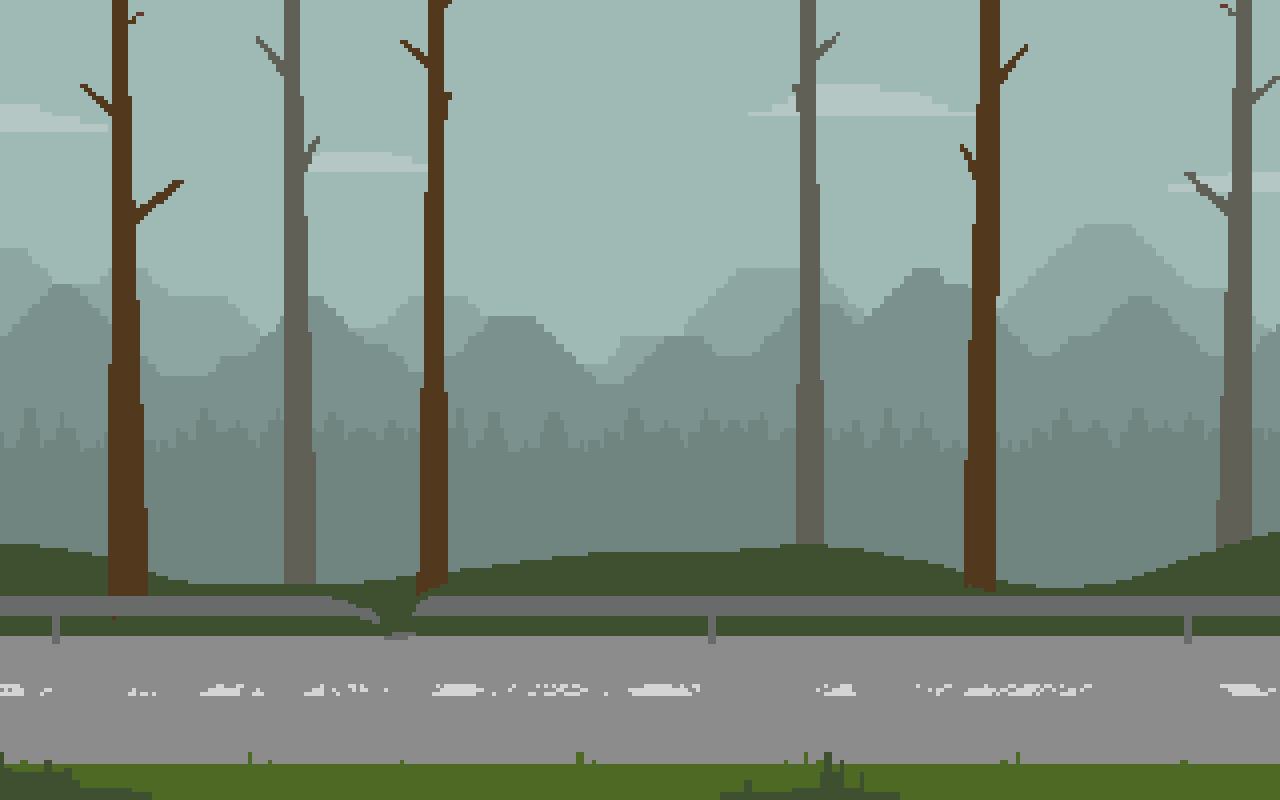
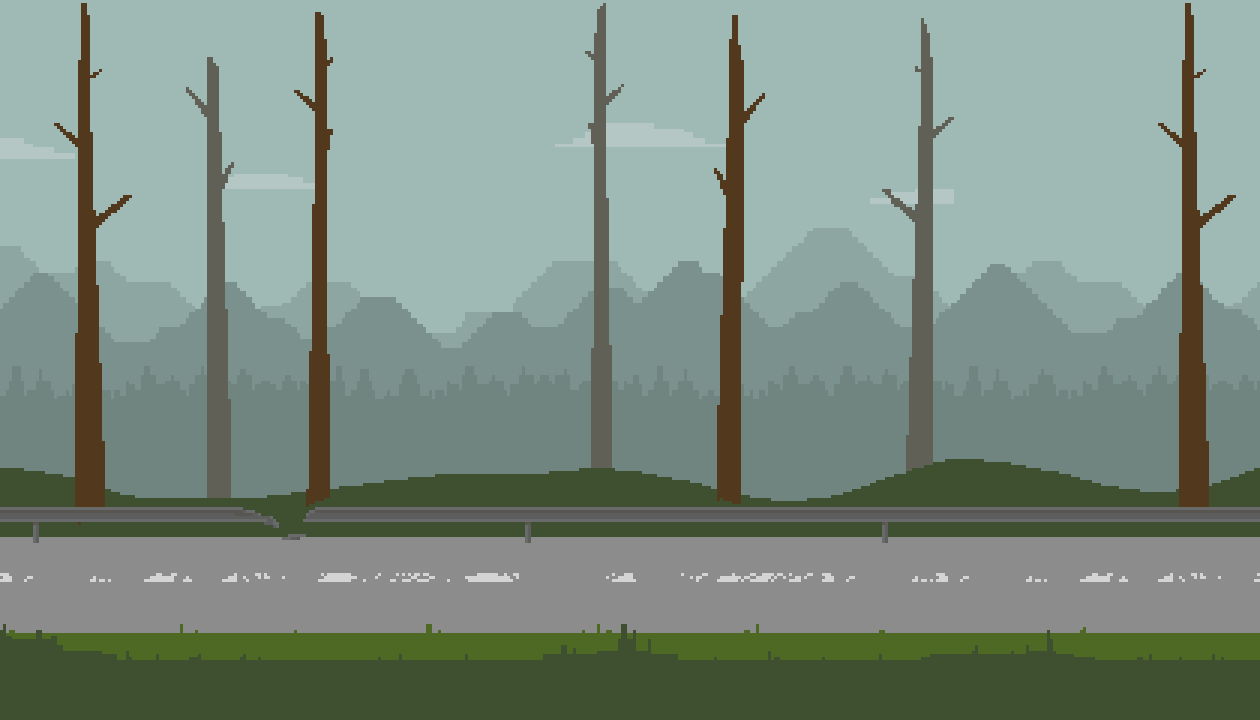
bigger background, add camera

diff --git a/src/phaser/scenes/RoadScene.ts b/src/phaser/scenes/RoadScene.ts
@@ -10,12 +10,10 @@ import {
 import { randomLine } from '../default-lines'
 import { pickUp } from '../utils/inventory'
 import { SCENES, IMAGES, AUDIO } from '../constants'
-import Survivor from '../sprites/Survivor'
 import Buggy from '../sprites/Buggy'
 import BuildingScene from './BuildingScene'
 
 class RoadScene extends BaseScene {
-  private survivor: Survivor
   private buggy: Buggy
   private floor: Physics.Arcade.Image
   private roadsign: Physics.Arcade.Image
@@ -68,7 +66,11 @@ class RoadScene extends BaseScene {
       use: () => {
         this.interactingWithObject = true
         if (this.currentObject.consumable) {
-          document.dispatchEvent(new CustomEvent('consume', { detail: { id: this.currentObject.id} }))
+          document.dispatchEvent(
+            new CustomEvent('consume', {
+              detail: { id: this.currentObject.id }
+            })
+          )
           return this.createDialog('Ah… much better')
         }
 
@@ -101,15 +103,16 @@ class RoadScene extends BaseScene {
     this.initScene()
 
     const bg = this.add.image(0, 0, IMAGES.ROAD.KEY).setOrigin(0)
-    bg.setDisplaySize(this.game.canvas.width, this.game.canvas.height)
+
+    this.physics.world.setBounds(0, 0, bg.width, bg.height)
 
     this.floor = this.physics.add
-      .staticImage(0, 412, IMAGES.FLOOR.KEY)
+      .staticImage(0, 570, IMAGES.FLOOR.KEY)
       .setOrigin(0, 0)
       .refreshBody()
 
     this.roadsign = this.physics.add
-      .staticImage(660, 360, IMAGES.ROADSIGN.KEY)
+      .staticImage(700, 485, IMAGES.ROADSIGN.KEY)
       .refreshBody()
       .setInteractive()
 
@@ -120,7 +123,7 @@ class RoadScene extends BaseScene {
     })
 
     this.pinecone = this.physics.add
-      .staticImage(550, 420, IMAGES.PINECONE.KEY)
+      .staticImage(550, 555, IMAGES.PINECONE.KEY)
       .refreshBody()
       .setInteractive()
 
@@ -130,6 +133,23 @@ class RoadScene extends BaseScene {
       }
     })
 
+    this.buggy = new Buggy({
+      scene: this,
+      key: IMAGES.BUGGY.KEY,
+      x: 1000,
+      y: 520
+    })
+    this.physics.add.collider(this.floor, this.buggy)
+
+    this.buggy.setInteractive()
+    this.buggy.on('pointerup', () => {
+      if (!this.playingCutscene) {
+        this.sys.events.on(this.look.buggy.key, this.look.buggy.cb, this)
+      }
+    })
+
+    this.cameras.main.setBounds(0, 0, 1260, 720)
+    this.cameras.main.startFollow(this.buggy, false, 1, 1, 0, 120)
     this.initCutscene()
   }
 
@@ -157,7 +177,7 @@ class RoadScene extends BaseScene {
 
     const reset = () => setText(baseText)
 
-    Object.keys(this.use).forEach((key) => {
+    Object.keys(this.use).forEach(key => {
       this.use[key].setText = () => {
         setText(`${baseText} ${this.use[key].name}`)
       }
@@ -168,7 +188,7 @@ class RoadScene extends BaseScene {
     })
 
     this.input.on('pointerdown', () => {
-      Object.keys(this.use).forEach((key) => {
+      Object.keys(this.use).forEach(key => {
         this[key].off('pointerover', this.use[key].setText)
         this[key].off('pointerdown', this.use[key].use)
         this[key].off('pointerout', reset)
@@ -189,21 +209,6 @@ class RoadScene extends BaseScene {
   }
 
   private initCutscene() {
-    this.buggy = new Buggy({
-      scene: this,
-      key: IMAGES.BUGGY.KEY,
-      x: 1000,
-      y: 359
-    })
-    this.physics.add.collider(this.floor, this.buggy)
-
-    this.buggy.setInteractive()
-    this.buggy.on('pointerup', () => {
-      if (!this.playingCutscene) {
-        this.sys.events.on(this.look.buggy.key, this.look.buggy.cb, this)
-      }
-    })
-
     this.buggy.play('buggy-driving')
 
     this.tweens.add({
@@ -218,6 +223,7 @@ class RoadScene extends BaseScene {
           this.buggy.play('buggy-parked')
           this.initEngine()
           this.initSurvivor()
+          this.cameras.main.startFollow(this.survivor, false, 1, 1, 0, 110)
         }
         this.createDialog('What the…?', finishCutscene)
       }
@@ -260,9 +266,9 @@ class RoadScene extends BaseScene {
 
   private lookAtBuggy() {
     const speech = [
-      'Hmm that\'s weird. Nothing seems to be wrong with the engine, it\'s just not getting any power, the battery is completely dead.',
-      'Uh, it doesn\'t look like something that I can fix today. It\'s getting late so I should find some place to rest anyway.',
-      'There is some sort of building down the road. Looks like a good shelter, I can push the buggy to there, doesn\'t look too far'
+      "Hmm that's weird. Nothing seems to be wrong with the engine, it's just not getting any power, the battery is completely dead.",
+      "Uh, it doesn't look like something that I can fix today. It's getting late so I should find some place to rest anyway.",
+      "There is some sort of building down the road. Looks like a good shelter, I can push the buggy to there, doesn't look too far"
     ]
 
     const startFinishCutscene = () => {
@@ -285,6 +291,9 @@ class RoadScene extends BaseScene {
         duration: 3000,
         yoyo: false,
         repeat: 0,
+        onStart: () => {
+          this.cameras.main.fadeOut()
+        },
         onComplete: () => {
           this.scene.add(SCENES.BUILDING, BuildingScene, false)
           this.scene.start(SCENES.BUILDING)
@@ -304,6 +313,9 @@ class RoadScene extends BaseScene {
     if (!this.playingCutscene) {
       this.survivor.stop()
       this.sys.events.off(this.look.buggy.key, this.look.buggy.cb, this, false)
+
+      this.survivor.body.setCollideWorldBounds(false)
+      this.buggy.body.setCollideWorldBounds(false)
 
       startFinishCutscene()
     }

diff --git a/src/phaser/utils/dialog.ts b/src/phaser/utils/dialog.ts
@@ -80,8 +80,12 @@ export class DialogService {
 
   // Calculates where to place the dialog window based on the game size
   private calculateWindowDimensions(width, height) {
-    const x = this.config.padding
-    const y = height - this.config.windowHeight - this.config.padding
+    const x = this.scene.cameras.main.worldView.x + this.config.padding
+    const y =
+      this.scene.cameras.main.worldView.y +
+      height -
+      this.config.windowHeight -
+      this.config.padding
     const rectWidth = width - this.config.padding * 2
     const rectHeight = this.config.windowHeight
     return {
@@ -143,9 +147,13 @@ export class DialogService {
       this.text.destroy()
     }
 
-    const x = this.config.padding + 10
-    const y =
-      this.getGameHeight() - this.config.windowHeight - this.config.padding + 10
+    const dimensions = this.calculateWindowDimensions(
+      this.getGameWidth(),
+      this.getGameHeight()
+    )
+
+    const x = dimensions.x + this.config.padding
+    const y = dimensions.y + this.config.padding
 
     this.text = this.scene.make.text({
       x,

diff --git a/src/phaser/utils/load.ts b/src/phaser/utils/load.ts
@@ -21,7 +21,7 @@ export const preloadBuggy = (scene: BaseScene) => {
   })
 }
 
-export const loadSurvivor = (scene: BaseScene, x = 100, y = 352) => {
+export const loadSurvivor = (scene: BaseScene, x = 100, y = 510) => {
   scene.anims.create({
     key: 'walk',
     frames: scene.anims.generateFrameNumbers(IMAGES.SURVIVOR.KEY, {
@@ -41,7 +41,7 @@ export const loadSurvivor = (scene: BaseScene, x = 100, y = 352) => {
 }
 
 export const setupInput = (character: Survivor, scene: BaseScene) => {
-  scene.input.on('pointerdown', (pointer) => {
+  scene.input.on('pointerdown', pointer => {
     if (scene.playingCutscene === false) {
       character.setDestination(pointer.downX)
       scene.physics.moveTo(character, pointer.downX, character.y, 100)

diff --git a/src/phaser/scenes/BaseScene.ts b/src/phaser/scenes/BaseScene.ts
@@ -1,10 +1,12 @@
 import { DialogService } from '../utils/dialog'
+import Survivor from '../sprites/Survivor'
 
 export class BaseScene extends Phaser.Scene {
+  public survivor: Survivor
   public playingCutscene = true
   public dialog: DialogService
   public useText: Phaser.GameObjects.Text
-  public currentObject: {id: string, name: string, consumable: boolean} = null
+  public currentObject: { id: string; name: string; consumable: boolean } = null
   public interactingWithObject = false
 
   public initScene() {
